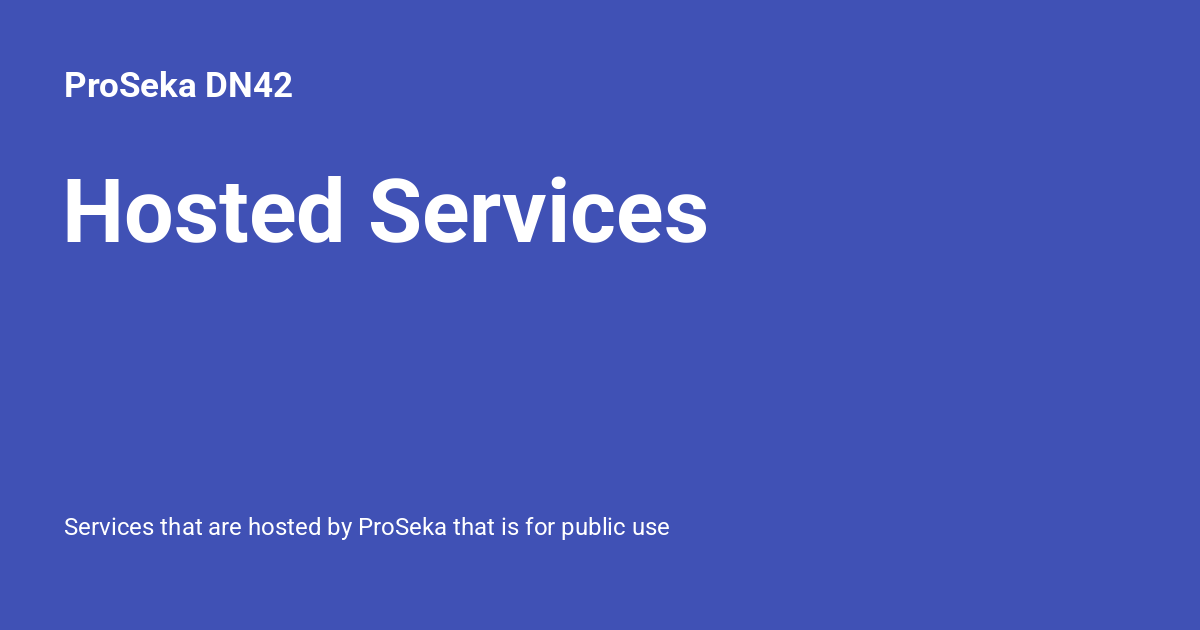
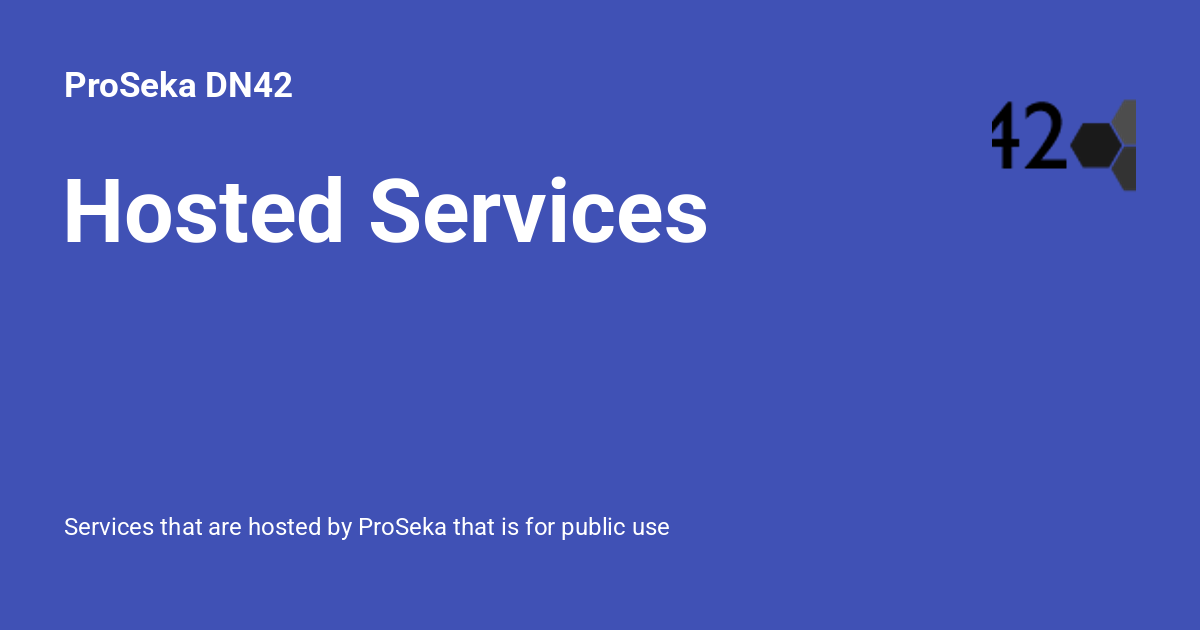
Deployed 20f0b73 with ProperDocs version: 1.6.7

Changed region(s): [[0.8017, 0.1508, 0.9558, 0.3016]]

diff --git a/Internal/Customer Endpoints/index.html b/Internal/Customer Endpoints/index.html
@@ -20,7 +20,7 @@
         
       
       
-      <link rel="icon" href="../../assets/images/favicon.png">
+      <link rel="icon" href="../../site_arts/favicon.ico">
       <meta name="generator" content="mkdocs-ProperDocs 1.6.7, mkdocs-material-9.7.6">
     
     
@@ -102,8 +102,7 @@
   <nav class="md-header__inner md-grid" aria-label="Header">
     <a href="../.." title="ProSeka DN42" class="md-header__button md-logo" aria-label="ProSeka DN42" data-md-component="logo">
       
-  
-  <svg xmlns="http://www.w3.org/2000/svg" viewBox="0 0 24 24"><path d="M12 8a3 3 0 0 0 3-3 3 3 0 0 0-3-3 3 3 0 0 0-3 3 3 3 0 0 0 3 3m0 3.54C9.64 9.35 6.5 8 3 8v11c3.5 0 6.64 1.35 9 3.54 2.36-2.19 5.5-3.54 9-3.54V8c-3.5 0-6.64 1.35-9 3.54"/></svg>
+  <img src="../../site_arts/dn42.png" alt="logo">
 
     </a>
     <label class="md-header__button md-icon" for="__drawer">
@@ -226,8 +225,7 @@
   <label class="md-nav__title" for="__drawer">
     <a href="../.." title="ProSeka DN42" class="md-nav__button md-logo" aria-label="ProSeka DN42" data-md-component="logo">
       
-  
-  <svg xmlns="http://www.w3.org/2000/svg" viewBox="0 0 24 24"><path d="M12 8a3 3 0 0 0 3-3 3 3 0 0 0-3-3 3 3 0 0 0-3 3 3 3 0 0 0 3 3m0 3.54C9.64 9.35 6.5 8 3 8v11c3.5 0 6.64 1.35 9 3.54 2.36-2.19 5.5-3.54 9-3.54V8c-3.5 0-6.64 1.35-9 3.54"/></svg>
+  <img src="../../site_arts/dn42.png" alt="logo">
 
     </a>
     ProSeka DN42

diff --git a/Nodes/Haruka/index.html b/Nodes/Haruka/index.html
@@ -20,7 +20,7 @@
         
       
       
-      <link rel="icon" href="../../assets/images/favicon.png">
+      <link rel="icon" href="../../site_arts/favicon.ico">
       <meta name="generator" content="mkdocs-ProperDocs 1.6.7, mkdocs-material-9.7.6">
     
     
@@ -107,8 +107,7 @@
   <nav class="md-header__inner md-grid" aria-label="Header">
     <a href="../.." title="ProSeka DN42" class="md-header__button md-logo" aria-label="ProSeka DN42" data-md-component="logo">
       
-  
-  <svg xmlns="http://www.w3.org/2000/svg" viewBox="0 0 24 24"><path d="M12 8a3 3 0 0 0 3-3 3 3 0 0 0-3-3 3 3 0 0 0-3 3 3 3 0 0 0 3 3m0 3.54C9.64 9.35 6.5 8 3 8v11c3.5 0 6.64 1.35 9 3.54 2.36-2.19 5.5-3.54 9-3.54V8c-3.5 0-6.64 1.35-9 3.54"/></svg>
+  <img src="../../site_arts/dn42.png" alt="logo">
 
     </a>
     <label class="md-header__button md-icon" for="__drawer">
@@ -231,8 +230,7 @@
   <label class="md-nav__title" for="__drawer">
     <a href="../.." title="ProSeka DN42" class="md-nav__button md-logo" aria-label="ProSeka DN42" data-md-component="logo">
       
-  
-  <svg xmlns="http://www.w3.org/2000/svg" viewBox="0 0 24 24"><path d="M12 8a3 3 0 0 0 3-3 3 3 0 0 0-3-3 3 3 0 0 0-3 3 3 3 0 0 0 3 3m0 3.54C9.64 9.35 6.5 8 3 8v11c3.5 0 6.64 1.35 9 3.54 2.36-2.19 5.5-3.54 9-3.54V8c-3.5 0-6.64 1.35-9 3.54"/></svg>
+  <img src="../../site_arts/dn42.png" alt="logo">
 
     </a>
     ProSeka DN42

diff --git a/Services/resolvers/index.html b/Services/resolvers/index.html
@@ -18,7 +18,7 @@
         
       
       
-      <link rel="icon" href="../../assets/images/favicon.png">
+      <link rel="icon" href="../../site_arts/favicon.ico">
       <meta name="generator" content="mkdocs-ProperDocs 1.6.7, mkdocs-material-9.7.6">
     
     
@@ -105,8 +105,7 @@
   <nav class="md-header__inner md-grid" aria-label="Header">
     <a href="../.." title="ProSeka DN42" class="md-header__button md-logo" aria-label="ProSeka DN42" data-md-component="logo">
       
-  
-  <svg xmlns="http://www.w3.org/2000/svg" viewBox="0 0 24 24"><path d="M12 8a3 3 0 0 0 3-3 3 3 0 0 0-3-3 3 3 0 0 0-3 3 3 3 0 0 0 3 3m0 3.54C9.64 9.35 6.5 8 3 8v11c3.5 0 6.64 1.35 9 3.54 2.36-2.19 5.5-3.54 9-3.54V8c-3.5 0-6.64 1.35-9 3.54"/></svg>
+  <img src="../../site_arts/dn42.png" alt="logo">
 
     </a>
     <label class="md-header__button md-icon" for="__drawer">
@@ -229,8 +228,7 @@
   <label class="md-nav__title" for="__drawer">
     <a href="../.." title="ProSeka DN42" class="md-nav__button md-logo" aria-label="ProSeka DN42" data-md-component="logo">
       
-  
-  <svg xmlns="http://www.w3.org/2000/svg" viewBox="0 0 24 24"><path d="M12 8a3 3 0 0 0 3-3 3 3 0 0 0-3-3 3 3 0 0 0-3 3 3 3 0 0 0 3 3m0 3.54C9.64 9.35 6.5 8 3 8v11c3.5 0 6.64 1.35 9 3.54 2.36-2.19 5.5-3.54 9-3.54V8c-3.5 0-6.64 1.35-9 3.54"/></svg>
+  <img src="../../site_arts/dn42.png" alt="logo">
 
     </a>
     ProSeka DN42

diff --git a/Internal/index.html b/Internal/index.html
@@ -20,7 +20,7 @@
         
       
       
-      <link rel="icon" href="../assets/images/favicon.png">
+      <link rel="icon" href="../site_arts/favicon.ico">
       <meta name="generator" content="mkdocs-ProperDocs 1.6.7, mkdocs-material-9.7.6">
     
     
@@ -107,8 +107,7 @@
   <nav class="md-header__inner md-grid" aria-label="Header">
     <a href=".." title="ProSeka DN42" class="md-header__button md-logo" aria-label="ProSeka DN42" data-md-component="logo">
       
-  
-  <svg xmlns="http://www.w3.org/2000/svg" viewBox="0 0 24 24"><path d="M12 8a3 3 0 0 0 3-3 3 3 0 0 0-3-3 3 3 0 0 0-3 3 3 3 0 0 0 3 3m0 3.54C9.64 9.35 6.5 8 3 8v11c3.5 0 6.64 1.35 9 3.54 2.36-2.19 5.5-3.54 9-3.54V8c-3.5 0-6.64 1.35-9 3.54"/></svg>
+  <img src="../site_arts/dn42.png" alt="logo">
 
     </a>
     <label class="md-header__button md-icon" for="__drawer">
@@ -231,8 +230,7 @@
   <label class="md-nav__title" for="__drawer">
     <a href=".." title="ProSeka DN42" class="md-nav__button md-logo" aria-label="ProSeka DN42" data-md-component="logo">
       
-  
-  <svg xmlns="http://www.w3.org/2000/svg" viewBox="0 0 24 24"><path d="M12 8a3 3 0 0 0 3-3 3 3 0 0 0-3-3 3 3 0 0 0-3 3 3 3 0 0 0 3 3m0 3.54C9.64 9.35 6.5 8 3 8v11c3.5 0 6.64 1.35 9 3.54 2.36-2.19 5.5-3.54 9-3.54V8c-3.5 0-6.64 1.35-9 3.54"/></svg>
+  <img src="../site_arts/dn42.png" alt="logo">
 
     </a>
     ProSeka DN42

diff --git a/Nodes/index.html b/Nodes/index.html
@@ -20,7 +20,7 @@
         
       
       
-      <link rel="icon" href="../assets/images/favicon.png">
+      <link rel="icon" href="../site_arts/favicon.ico">
       <meta name="generator" content="mkdocs-ProperDocs 1.6.7, mkdocs-material-9.7.6">
     
     
@@ -107,8 +107,7 @@
   <nav class="md-header__inner md-grid" aria-label="Header">
     <a href=".." title="ProSeka DN42" class="md-header__button md-logo" aria-label="ProSeka DN42" data-md-component="logo">
       
-  
-  <svg xmlns="http://www.w3.org/2000/svg" viewBox="0 0 24 24"><path d="M12 8a3 3 0 0 0 3-3 3 3 0 0 0-3-3 3 3 0 0 0-3 3 3 3 0 0 0 3 3m0 3.54C9.64 9.35 6.5 8 3 8v11c3.5 0 6.64 1.35 9 3.54 2.36-2.19 5.5-3.54 9-3.54V8c-3.5 0-6.64 1.35-9 3.54"/></svg>
+  <img src="../site_arts/dn42.png" alt="logo">
 
     </a>
     <label class="md-header__button md-icon" for="__drawer">
@@ -231,8 +230,7 @@
   <label class="md-nav__title" for="__drawer">
     <a href=".." title="ProSeka DN42" class="md-nav__button md-logo" aria-label="ProSeka DN42" data-md-component="logo">
       
-  
-  <svg xmlns="http://www.w3.org/2000/svg" viewBox="0 0 24 24"><path d="M12 8a3 3 0 0 0 3-3 3 3 0 0 0-3-3 3 3 0 0 0-3 3 3 3 0 0 0 3 3m0 3.54C9.64 9.35 6.5 8 3 8v11c3.5 0 6.64 1.35 9 3.54 2.36-2.19 5.5-3.54 9-3.54V8c-3.5 0-6.64 1.35-9 3.54"/></svg>
+  <img src="../site_arts/dn42.png" alt="logo">
 
     </a>
     ProSeka DN42

diff --git a/Services/index.html b/Services/index.html
@@ -20,7 +20,7 @@
         
       
       
-      <link rel="icon" href="../assets/images/favicon.png">
+      <link rel="icon" href="../site_arts/favicon.ico">
       <meta name="generator" content="mkdocs-ProperDocs 1.6.7, mkdocs-material-9.7.6">
     
     
@@ -107,8 +107,7 @@
   <nav class="md-header__inner md-grid" aria-label="Header">
     <a href=".." title="ProSeka DN42" class="md-header__button md-logo" aria-label="ProSeka DN42" data-md-component="logo">
       
-  
-  <svg xmlns="http://www.w3.org/2000/svg" viewBox="0 0 24 24"><path d="M12 8a3 3 0 0 0 3-3 3 3 0 0 0-3-3 3 3 0 0 0-3 3 3 3 0 0 0 3 3m0 3.54C9.64 9.35 6.5 8 3 8v11c3.5 0 6.64 1.35 9 3.54 2.36-2.19 5.5-3.54 9-3.54V8c-3.5 0-6.64 1.35-9 3.54"/></svg>
+  <img src="../site_arts/dn42.png" alt="logo">
 
     </a>
     <label class="md-header__button md-icon" for="__drawer">
@@ -231,8 +230,7 @@
   <label class="md-nav__title" for="__drawer">
     <a href=".." title="ProSeka DN42" class="md-nav__button md-logo" aria-label="ProSeka DN42" data-md-component="logo">
       
-  
-  <svg xmlns="http://www.w3.org/2000/svg" viewBox="0 0 24 24"><path d="M12 8a3 3 0 0 0 3-3 3 3 0 0 0-3-3 3 3 0 0 0-3 3 3 3 0 0 0 3 3m0 3.54C9.64 9.35 6.5 8 3 8v11c3.5 0 6.64 1.35 9 3.54 2.36-2.19 5.5-3.54 9-3.54V8c-3.5 0-6.64 1.35-9 3.54"/></svg>
+  <img src="../site_arts/dn42.png" alt="logo">
 
     </a>
     ProSeka DN42

diff --git a/404.html b/404.html
@@ -14,7 +14,7 @@
         
       
       
-      <link rel="icon" href="/assets/images/favicon.png">
+      <link rel="icon" href="/site_arts/favicon.ico">
       <meta name="generator" content="mkdocs-ProperDocs 1.6.7, mkdocs-material-9.7.6">
     
     
@@ -83,8 +83,7 @@
   <nav class="md-header__inner md-grid" aria-label="Header">
     <a href="/." title="ProSeka DN42" class="md-header__button md-logo" aria-label="ProSeka DN42" data-md-component="logo">
       
-  
-  <svg xmlns="http://www.w3.org/2000/svg" viewBox="0 0 24 24"><path d="M12 8a3 3 0 0 0 3-3 3 3 0 0 0-3-3 3 3 0 0 0-3 3 3 3 0 0 0 3 3m0 3.54C9.64 9.35 6.5 8 3 8v11c3.5 0 6.64 1.35 9 3.54 2.36-2.19 5.5-3.54 9-3.54V8c-3.5 0-6.64 1.35-9 3.54"/></svg>
+  <img src="/site_arts/dn42.png" alt="logo">
 
     </a>
     <label class="md-header__button md-icon" for="__drawer">
@@ -207,8 +206,7 @@
   <label class="md-nav__title" for="__drawer">
     <a href="/." title="ProSeka DN42" class="md-nav__button md-logo" aria-label="ProSeka DN42" data-md-component="logo">
       
-  
-  <svg xmlns="http://www.w3.org/2000/svg" viewBox="0 0 24 24"><path d="M12 8a3 3 0 0 0 3-3 3 3 0 0 0-3-3 3 3 0 0 0-3 3 3 3 0 0 0 3 3m0 3.54C9.64 9.35 6.5 8 3 8v11c3.5 0 6.64 1.35 9 3.54 2.36-2.19 5.5-3.54 9-3.54V8c-3.5 0-6.64 1.35-9 3.54"/></svg>
+  <img src="/site_arts/dn42.png" alt="logo">
 
     </a>
     ProSeka DN42

diff --git a/index.html b/index.html
@@ -18,7 +18,7 @@
         
       
       
-      <link rel="icon" href="assets/images/favicon.png">
+      <link rel="icon" href="site_arts/favicon.ico">
       <meta name="generator" content="mkdocs-ProperDocs 1.6.7, mkdocs-material-9.7.6">
     
     
@@ -105,8 +105,7 @@
   <nav class="md-header__inner md-grid" aria-label="Header">
     <a href="." title="ProSeka DN42" class="md-header__button md-logo" aria-label="ProSeka DN42" data-md-component="logo">
       
-  
-  <svg xmlns="http://www.w3.org/2000/svg" viewBox="0 0 24 24"><path d="M12 8a3 3 0 0 0 3-3 3 3 0 0 0-3-3 3 3 0 0 0-3 3 3 3 0 0 0 3 3m0 3.54C9.64 9.35 6.5 8 3 8v11c3.5 0 6.64 1.35 9 3.54 2.36-2.19 5.5-3.54 9-3.54V8c-3.5 0-6.64 1.35-9 3.54"/></svg>
+  <img src="site_arts/dn42.png" alt="logo">
 
     </a>
     <label class="md-header__button md-icon" for="__drawer">
@@ -229,8 +228,7 @@
   <label class="md-nav__title" for="__drawer">
     <a href="." title="ProSeka DN42" class="md-nav__button md-logo" aria-label="ProSeka DN42" data-md-component="logo">
       
-  
-  <svg xmlns="http://www.w3.org/2000/svg" viewBox="0 0 24 24"><path d="M12 8a3 3 0 0 0 3-3 3 3 0 0 0-3-3 3 3 0 0 0-3 3 3 3 0 0 0 3 3m0 3.54C9.64 9.35 6.5 8 3 8v11c3.5 0 6.64 1.35 9 3.54 2.36-2.19 5.5-3.54 9-3.54V8c-3.5 0-6.64 1.35-9 3.54"/></svg>
+  <img src="site_arts/dn42.png" alt="logo">
 
     </a>
     ProSeka DN42
